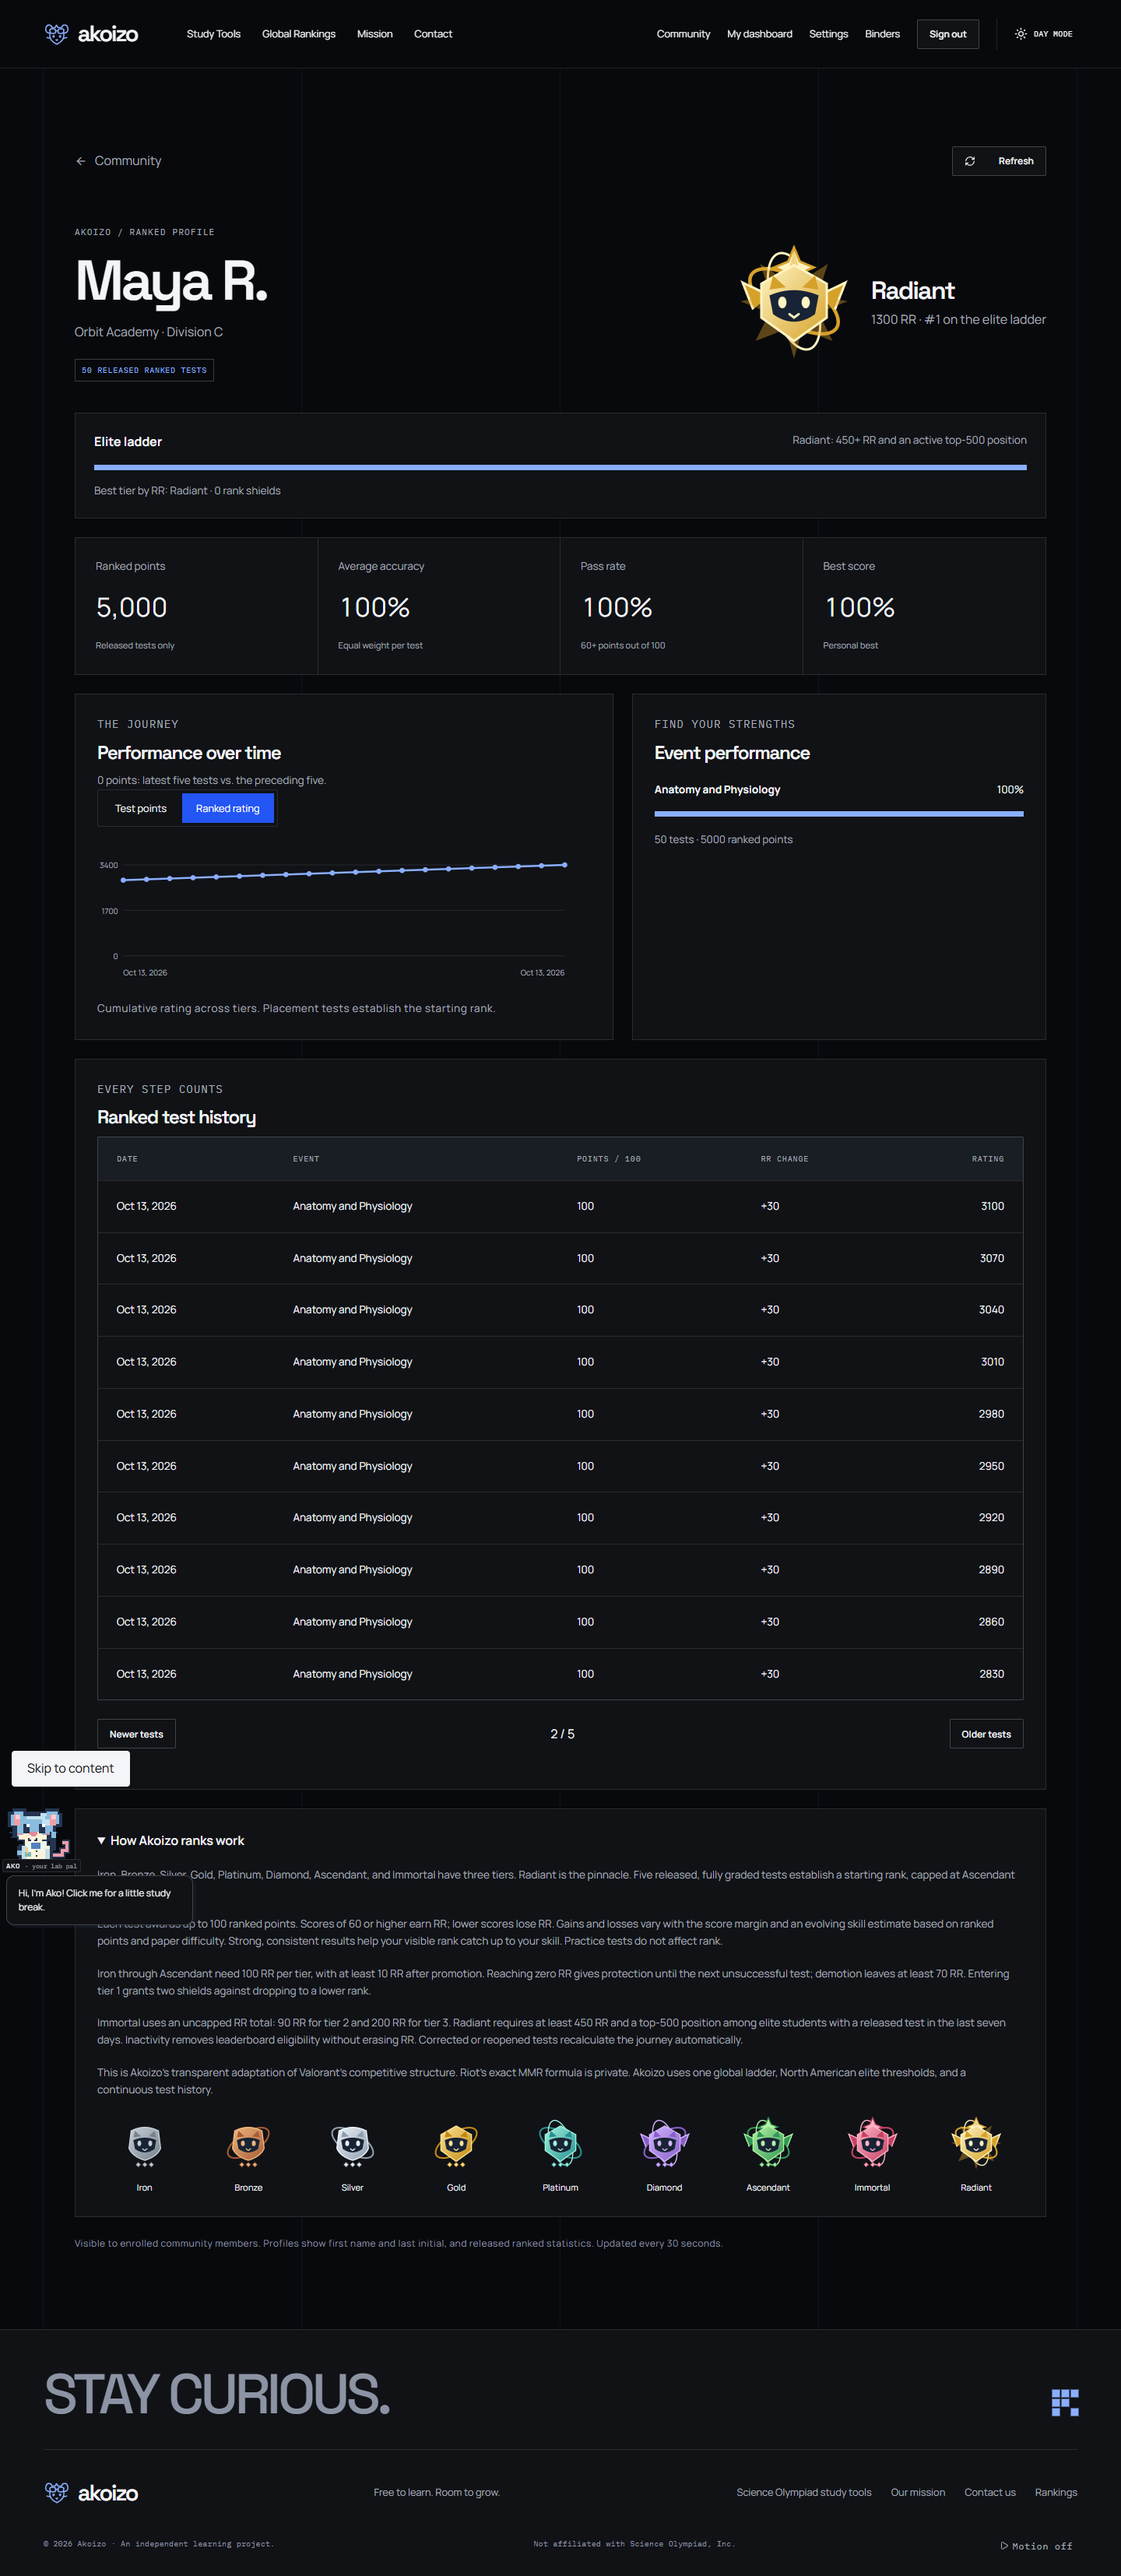
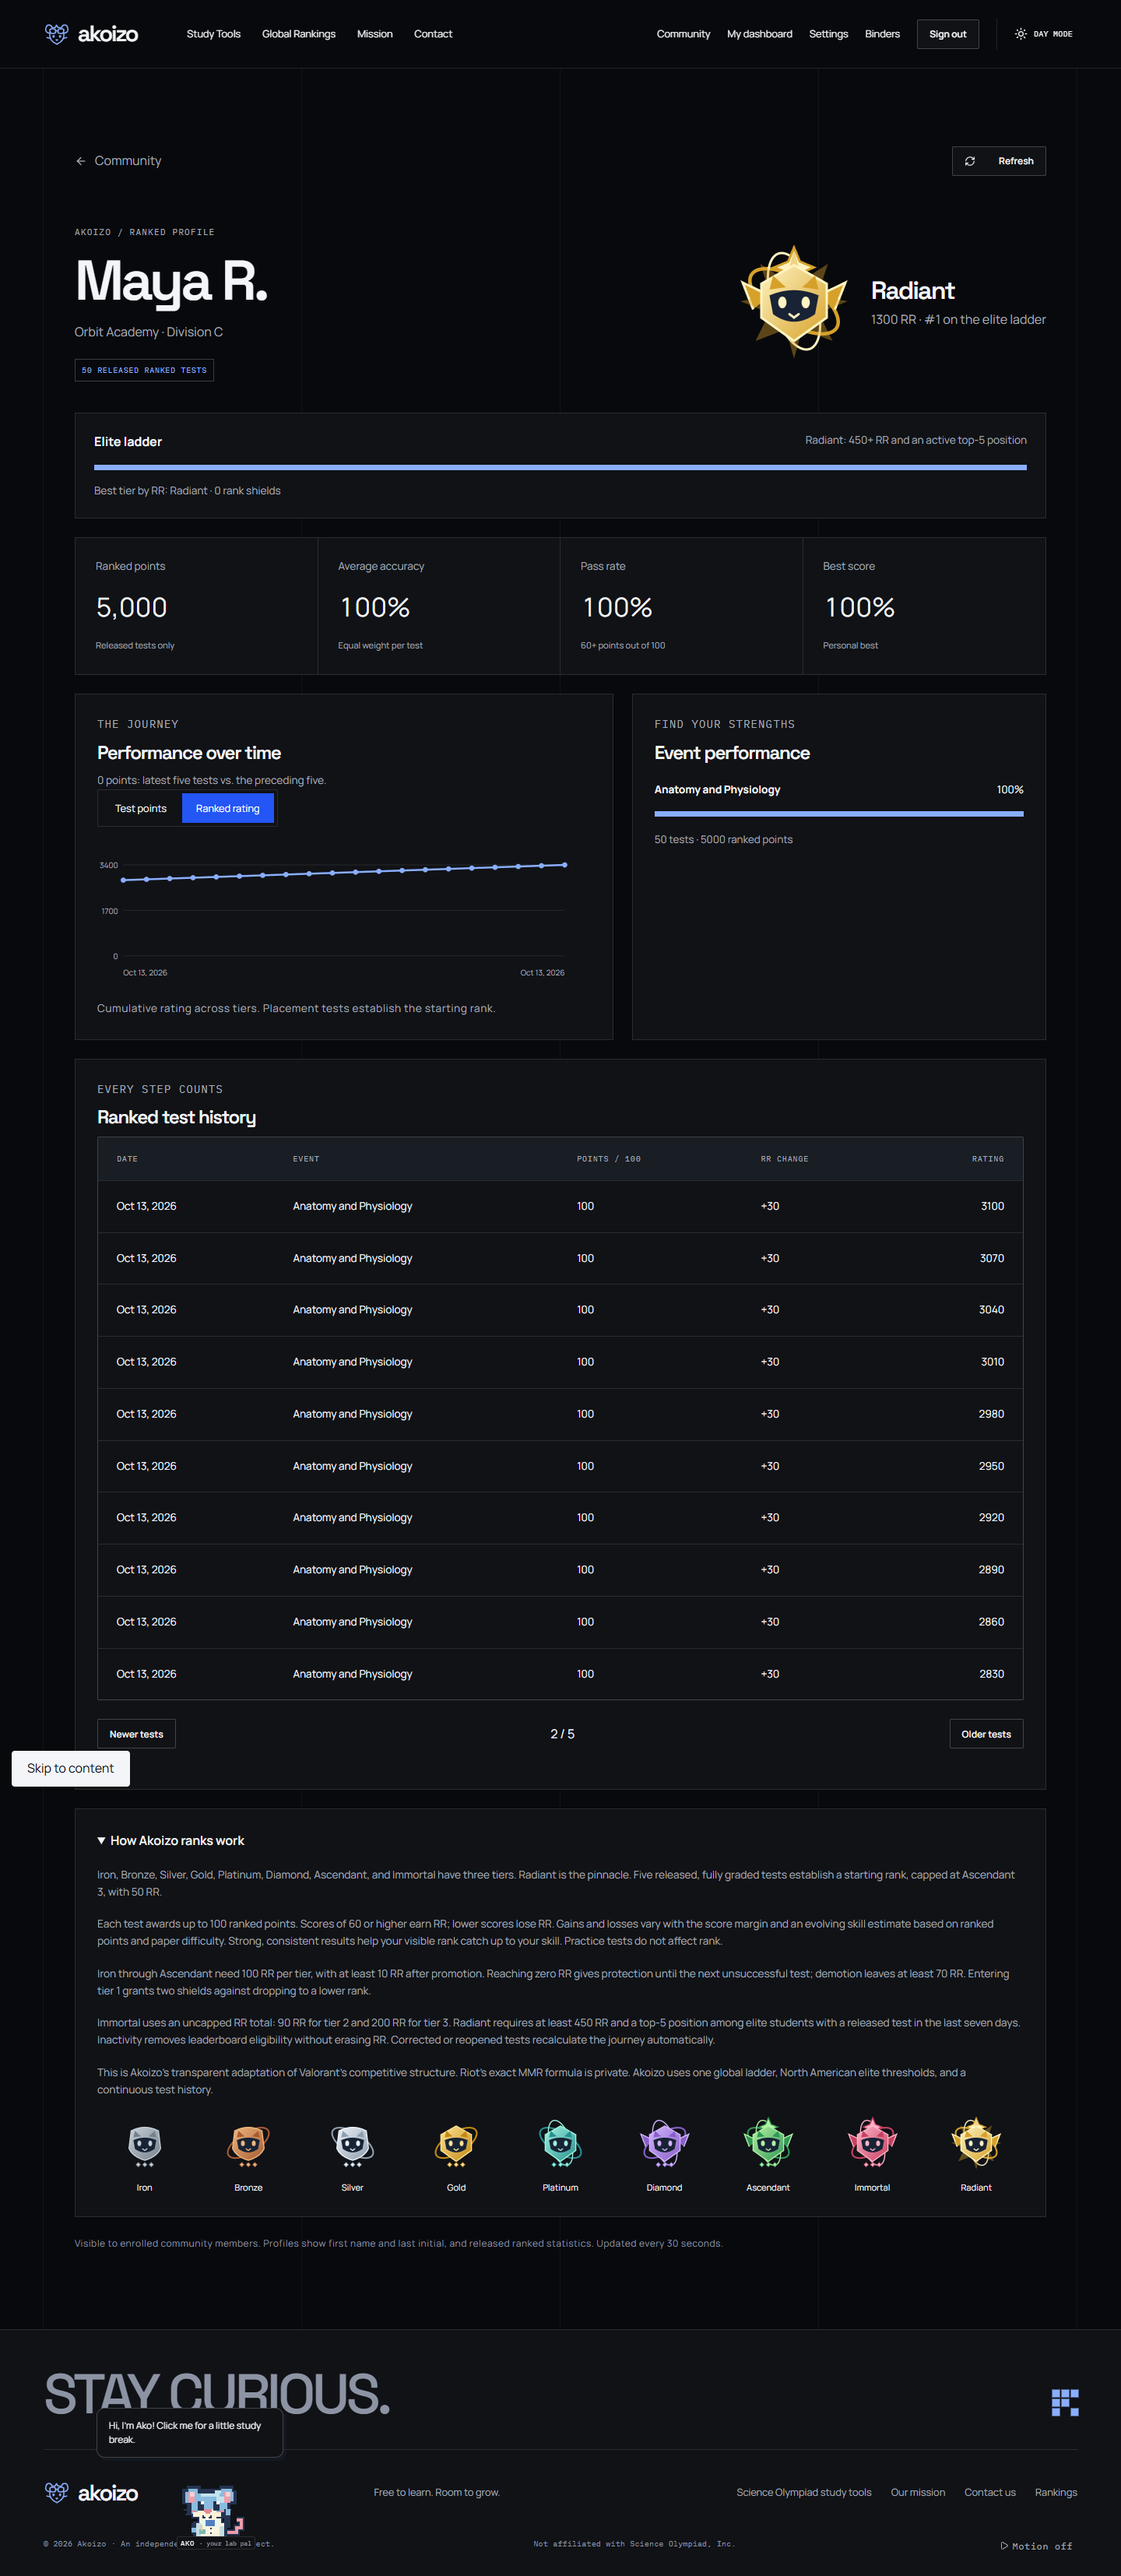
fixed ranking structure

diff --git a/src/components/rankings.tsx b/src/components/rankings.tsx
@@ -1,9 +1,10 @@
 'use client';
 import { useEffect, useState } from 'react';
 import Link from 'next/link';
-import { Search, Trophy } from 'lucide-react';
+import { ArrowUpRight, Search, Trophy } from 'lucide-react';
 import type { Division } from '@/lib/events';
 import { Orbit } from './art';
+import './student-profile.css';
 type Ranking = {
   id: string;
   name: string;
@@ -105,31 +106,36 @@ export function Rankings() {
           </button>
         </div>
       ) : results.length ? (
-        <div className="table-wrap" role="region" aria-label="Global rankings" tabIndex={0}>
-          <table>
-            <thead>
-              <tr>
-                <th scope="col">RANK</th>
-                <th scope="col">MEMBER</th>
-                <th scope="col">SCHOOL</th>
-                <th scope="col">DIVISION</th>
-                <th scope="col">POINTS</th>
-              </tr>
-            </thead>
-            <tbody>
-              {results.map((row) => (
-                <tr key={row.id}>
-                  <td>{row.rank}</td>
-                  <td>
-                    <Link href={`/students/${encodeURIComponent(row.id)}`}>{row.name}</Link>
-                  </td>
-                  <td>{row.school}</td>
-                  <td>{row.division}</td>
-                  <td>{row.points.toLocaleString('en-US')}</td>
-                </tr>
-              ))}
-            </tbody>
-          </table>
+        <div className="student-card-grid" role="region" aria-label="Global rankings">
+          {results.map((row) => (
+            <Link
+              key={row.id}
+              className="ranked-student-card"
+              href={`/students/${encodeURIComponent(row.id)}`}
+              aria-label={`View ${row.name} ranked profile`}
+            >
+              <div className="student-card-top">
+                <span className="student-avatar">{row.name.slice(0, 2).toUpperCase()}</span>
+                <span className="tag">#{row.rank} · ALL-TIME POINTS</span>
+                <ArrowUpRight size={18} />
+              </div>
+              <h2>{row.name}</h2>
+              <p>{row.school}</p>
+              <dl className="student-card-stats global-ranking-card-stats">
+                <div>
+                  <dt>Ranked points</dt>
+                  <dd>{row.points.toLocaleString('en-US')}</dd>
+                </div>
+                <div>
+                  <dt>Division</dt>
+                  <dd>{row.division}</dd>
+                </div>
+              </dl>
+              <span className="student-card-link">
+                View ranked profile <ArrowUpRight size={14} />
+              </span>
+            </Link>
+          ))}
         </div>
       ) : (
         <div className="empty-state">

diff --git a/src/components/student-ranked-profile.tsx b/src/components/student-ranked-profile.tsx
@@ -5,7 +5,7 @@ import { ArrowLeft, RefreshCw } from 'lucide-react';
 import { AccountGate } from './account-gate';
 import { useAuth, authMessage } from './auth-context';
 import { RankBadge } from './rank-badge';
-import { RANK_NAMES, rankLabel } from '@/lib/competitive-rating';
+import { RANK_NAMES, RADIANT_LIMIT, RADIANT_RR, rankLabel } from '@/lib/competitive-rating';
 import type { StudentRankedProfile as Profile } from '@/lib/student-profiles';
 import './student-profile.css';
 
@@ -120,7 +120,7 @@ function ProfileView({ studentId }: { studentId: string }) {
           <span>
             {ranked
               ? high
-                ? 'Radiant: 450+ RR and an active top-500 position'
+                ? `Radiant: ${RADIANT_RR}+ RR and an active top-${RADIANT_LIMIT} position`
                 : `${100 - data.rank.rr} RR to promotion`
               : `${5 - data.rank.placements} more released tests to reveal a rank`}
           </span>
@@ -336,9 +336,9 @@ function ProfileView({ studentId }: { studentId: string }) {
         </p>
         <p>
           Immortal uses an uncapped RR total: 90 RR for tier 2 and 200 RR for tier 3. Radiant
-          requires at least 450 RR and a top-500 position among elite students with a released test
-          in the last seven days. Inactivity removes leaderboard eligibility without erasing RR.
-          Corrected or reopened tests recalculate the journey automatically.
+          requires at least {RADIANT_RR} RR and a top-{RADIANT_LIMIT} position among elite students
+          with a released test in the last seven days. Inactivity removes leaderboard eligibility
+          without erasing RR. Corrected or reopened tests recalculate the journey automatically.
         </p>
         <p>
           This is Akoizo’s transparent adaptation of Valorant’s competitive structure. Riot’s exact

diff --git a/tests/competitive-rating.test.ts b/tests/competitive-rating.test.ts
@@ -64,15 +64,21 @@ test('paper difficulty influences the skill estimate', () => {
       calculateRating(neutral.map((t) => ({ ...t, paperAverage: 80 }))).rating,
   );
 });
-test('Immortal RR is uncapped and Radiant needs threshold, top 500, and recent activity', () => {
+test('Immortal RR is uncapped and Radiant is limited to five eligible students', () => {
   const rank = calculateRating(scores(Array(50).fill(100)));
   assert.equal(rank.name, 'Immortal');
   assert.equal(rank.tier, 3);
   assert.ok(rank.rr > 450);
   const players = Array.from({ length: 501 }, (_, i) => ({ id: String(i).padStart(4, '0'), rank }));
   const ladder = applyLeaderboard(players, now);
-  assert.equal(ladder[499].rank.name, 'Radiant');
-  assert.equal(ladder[500].rank.name, 'Immortal');
+  assert.equal(ladder[4].rank.name, 'Radiant');
+  assert.equal(ladder[5].rank.name, 'Immortal');
+  assert.equal(ladder.filter((s) => s.rank.name === 'Radiant').length, 5);
+  const contender = { id: 'new', rank: { ...rank, rr: rank.rr + 30, rating: rank.rating + 30 } };
+  const updated = applyLeaderboard([...players, contender], now);
+  assert.equal(updated.at(-1)!.rank.name, 'Radiant');
+  assert.equal(updated[4].rank.name, 'Immortal');
+  assert.equal(updated.filter((s) => s.rank.name === 'Radiant').length, 5);
   assert.equal(
     applyLeaderboard([{ id: 'a', rank: { ...rank, rr: 449 } }], now)[0].rank.name,
     'Immortal',

diff --git a/src/lib/competitive-rating.ts b/src/lib/competitive-rating.ts
@@ -14,6 +14,7 @@ export type RankName = (typeof RANK_NAMES)[number];
 export const PLACEMENT_TESTS = 5;
 export const PASS_POINTS = 60;
 export const RADIANT_RR = 450;
+export const RADIANT_LIMIT = 5;
 export type RatingTest = {
   id: string;
   points: number;
@@ -126,7 +127,7 @@ export function applyLeaderboard<T extends { id: string; rank: CompetitiveRating
   const positions = new Map(eligible.map((s, i) => [s.id, i + 1]));
   return students.map((s) => {
     const position = positions.get(s.id) ?? null;
-    const radiant = position !== null && position <= 500 && s.rank.rr >= RADIANT_RR;
+    const radiant = position !== null && position <= RADIANT_LIMIT && s.rank.rr >= RADIANT_RR;
     return {
       ...s,
       rank: {

diff --git a/src/components/student-profile.css b/src/components/student-profile.css
@@ -66,7 +66,8 @@
   background: var(--surface-2);
   font-size: 0.8rem;
 }
-.ranked-student-card h3 {
+.ranked-student-card h3,
+.ranked-student-card h2 {
   font-size: 1.4rem;
   margin: 0 0 5px;
 }
@@ -108,6 +109,12 @@
 .student-card-stats dd {
   font-size: 1.1rem;
   margin: 8px 0 0;
+}
+.global-ranking-card-stats {
+  grid-template-columns: 1fr 1fr;
+  border-top: 1px solid var(--line);
+  padding-top: 20px;
+  margin-top: 20px;
 }
 .student-card-link {
   display: flex;

diff --git a/documents/competitive-ranking.md b/documents/competitive-ranking.md
@@ -10,7 +10,7 @@ This is a test-based adaptation of Valorant's published competitive structure, n
 
 - Five fully graded, released tests establish placement, with 50 RR and a maximum initial rank of Ascendant 3.
 - Iron through Ascendant each have three tiers with 100 RR per tier. Immortal has three tiers on one uncapped RR total: tier 2 at 90 and tier 3 at 200, following North American thresholds.
-- Radiant needs 450 elite RR and an active top-500 position. Elite leaderboard eligibility requires a qualifying test completed within seven days. Inactivity does not erase earned RR. Equal ratings use stable student IDs as the tie breaker.
+- Radiant is limited to the top five eligible students globally and requires 450 elite RR. Elite leaderboard eligibility requires a qualifying test completed within seven days. Inactivity does not erase earned RR. Equal ratings use stable student IDs as the tie breaker. Fewer than five students can be Radiant if fewer meet the requirements.
 - A test's existing server-awarded ranked points are normalized to 0–100. A score of at least 60 is a successful result; lower scores lose RR.
 - Skill starts from the mean placement performance multiplied by 21. Later skill estimates use 85% previous skill and 15% new performance. Paper difficulty adjusts performance by `clamp(60 − paper average, −10, 10)`; a paper needs at least three qualifying results before this adjustment applies. Legacy results use a neutral benchmark.
 - Below Immortal, convergence is `clamp((skill − current cumulative rating) / 100, −8, 8)`. Success earns `round(clamp(20 + (points − 60) / 4 + convergence, 10, 40))`. An unsuccessful result loses `round(clamp(20 + (60 − points) / 4 − convergence, 10, 35))`. Immortal omits convergence. This is Akoizo's explicit points-to-RR policy, not Riot's formula.
